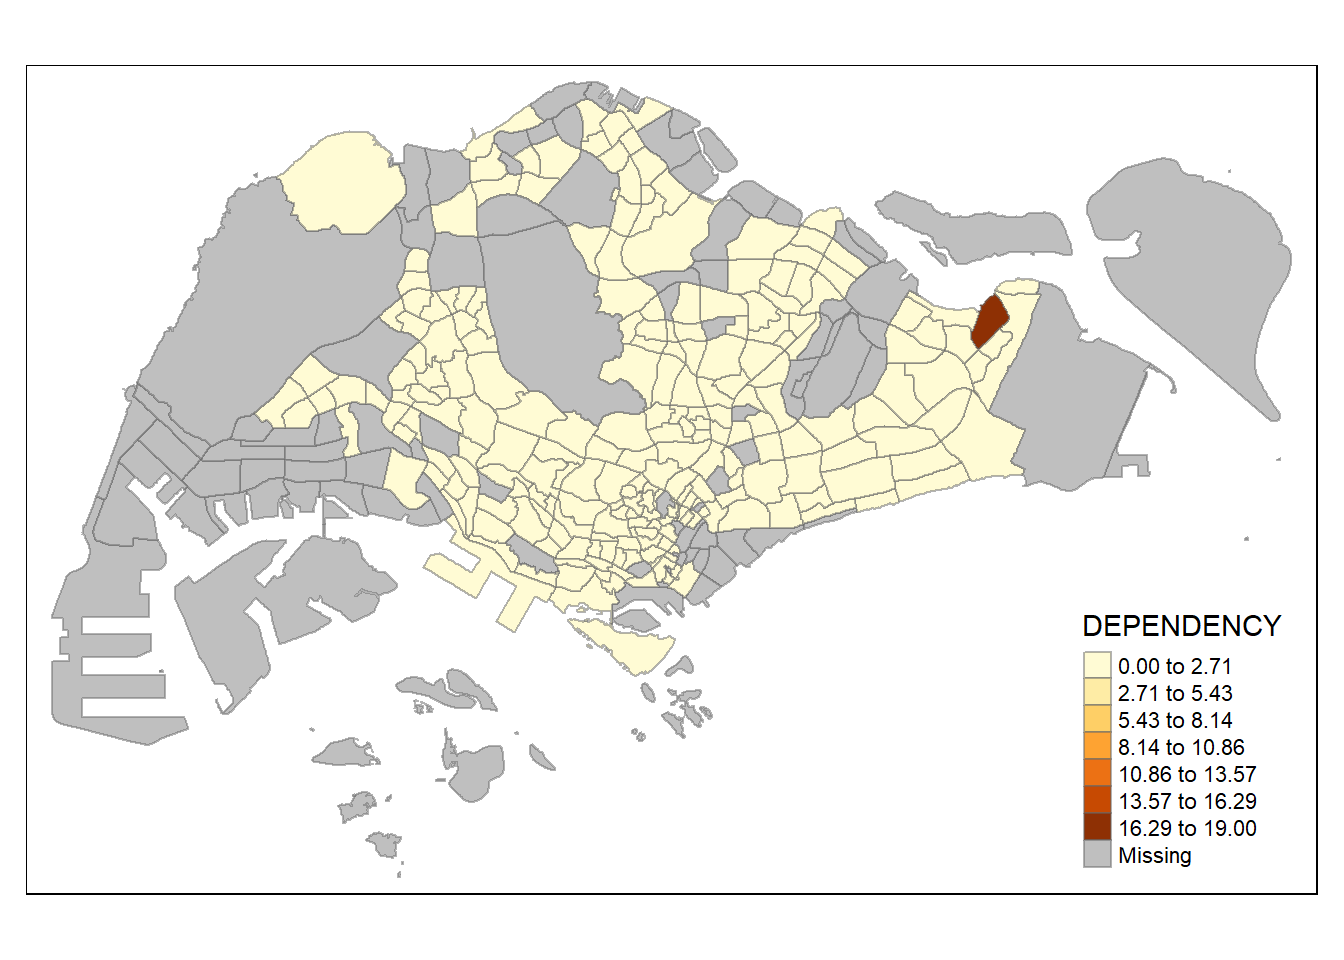
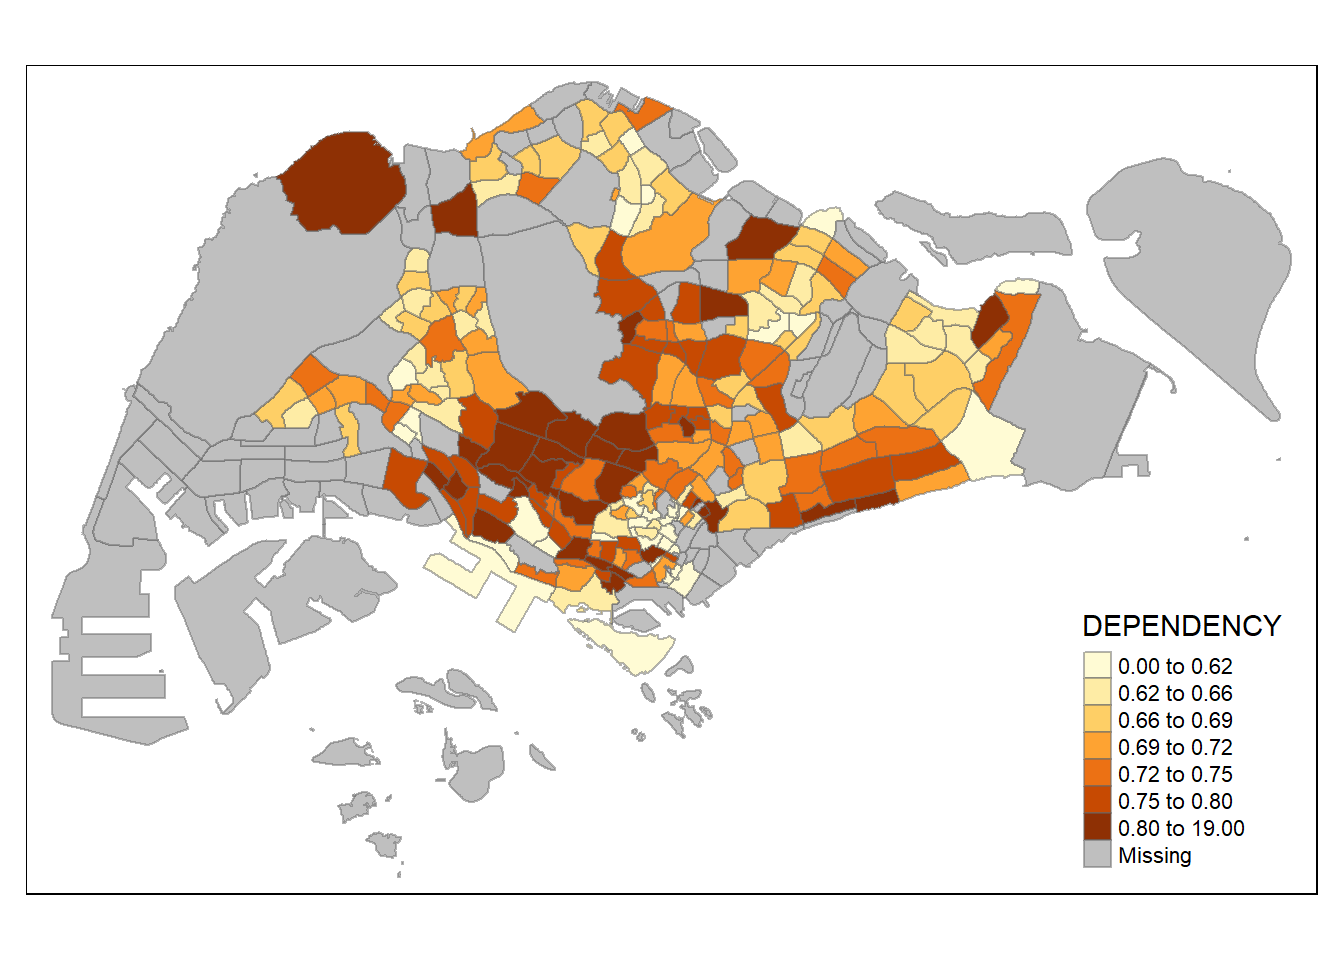
Commit navbar modifications

Changed region(s): [[0.1875, 0.0938, 0.7812, 0.6562], [0.8125, 0.6875, 0.9375, 0.875]]

diff --git a/_site/Hands-on_Ex/Hands-on_Ex02/Hands-on_Ex02.html b/_site/Hands-on_Ex/Hands-on_Ex02/Hands-on_Ex02.html
@@ -493,7 +493,7 @@ First 10 features:
 <section id="using-different-classification-methods-compare-the-differences" class="level2">
 <h2 class="anchored" data-anchor-id="using-different-classification-methods-compare-the-differences">Using different classification methods, compare the differences</h2>
 <div class="cell">
-<div class="sourceCode cell-code" id="cb17"><pre class="sourceCode r code-with-copy"><code class="sourceCode r"><span id="cb17-1"><a href="#cb17-1" aria-hidden="true" tabindex="-1"></a><span class="fu">tm_shape</span>(mpsz_pop2020)<span class="sc">+</span></span>
+<div class="sourceCode cell-code" id="cb17"><pre class="sourceCode r code-with-copy"><code class="sourceCode r"><span id="cb17-1"><a href="#cb17-1" aria-hidden="true" tabindex="-1"></a><span class="fu">tm_shape</span>(mpsz_pop2020) <span class="sc">+</span></span>
 <span id="cb17-2"><a href="#cb17-2" aria-hidden="true" tabindex="-1"></a>  <span class="fu">tm_fill</span>(<span class="st">"DEPENDENCY"</span>,</span>
 <span id="cb17-3"><a href="#cb17-3" aria-hidden="true" tabindex="-1"></a>          <span class="at">n =</span> <span class="dv">5</span>,</span>
 <span id="cb17-4"><a href="#cb17-4" aria-hidden="true" tabindex="-1"></a>          <span class="at">style =</span> <span class="st">"hclust"</span>) <span class="sc">+</span></span>
@@ -503,8 +503,8 @@ First 10 features:
 </div>
 <div class="sourceCode cell-code" id="cb18"><pre class="sourceCode r code-with-copy"><code class="sourceCode r"><span id="cb18-1"><a href="#cb18-1" aria-hidden="true" tabindex="-1"></a><span class="fu">tm_shape</span>(mpsz_pop2020)<span class="sc">+</span></span>
 <span id="cb18-2"><a href="#cb18-2" aria-hidden="true" tabindex="-1"></a>  <span class="fu">tm_fill</span>(<span class="st">"DEPENDENCY"</span>,</span>
-<span id="cb18-3"><a href="#cb18-3" aria-hidden="true" tabindex="-1"></a>          <span class="at">n =</span><span class="dv">7</span>,</span>
-<span id="cb18-4"><a href="#cb18-4" aria-hidden="true" tabindex="-1"></a>          <span class="at">style =</span> <span class="st">"equal"</span>) <span class="sc">+</span></span>
+<span id="cb18-3"><a href="#cb18-3" aria-hidden="true" tabindex="-1"></a>          <span class="at">n =</span> <span class="dv">7</span>,</span>
+<span id="cb18-4"><a href="#cb18-4" aria-hidden="true" tabindex="-1"></a>          <span class="at">style =</span> <span class="st">"quantile"</span>) <span class="sc">+</span></span>
 <span id="cb18-5"><a href="#cb18-5" aria-hidden="true" tabindex="-1"></a>  <span class="fu">tm_borders</span>(<span class="at">alpha =</span> <span class="fl">0.5</span>)</span></code><button title="Copy to Clipboard" class="code-copy-button"><i class="bi"></i></button></pre></div>
 <div class="cell-output-display">
 <p><img src="Hands-on_Ex02_files/figure-html/unnamed-chunk-15-2.png" class="img-fluid" width="672"></p>

diff --git a/_site/index.html b/_site/index.html
@@ -107,6 +107,22 @@ ul.task-list li input[type="checkbox"] {
     <a class="dropdown-item" href="./In-class_Ex/In-class_Ex03/In-class_Ex03.html">
  <span class="dropdown-text">In-class Exercise 3</span></a>
   </li>  
+        <li>
+    <a class="dropdown-item" href="./In-class_Ex/In-class_Ex04/In-class_Ex04.html">
+ <span class="dropdown-text">In-class Exercise 4</span></a>
+  </li>  
+        <li>
+    <a class="dropdown-item" href="./In-class_Ex/In-class_Ex05/In-class_Ex05.html">
+ <span class="dropdown-text">In-class Exercise 5</span></a>
+  </li>  
+    </ul>
+  </li>
+  <li class="nav-item dropdown ">
+    <a class="nav-link dropdown-toggle" href="#" id="nav-menu-take-home-exercise" role="button" data-bs-toggle="dropdown" aria-expanded="false">
+ <span class="menu-text">Take Home Exercise</span>
+    </a>
+    <ul class="dropdown-menu" aria-labelledby="nav-menu-take-home-exercise">    
+        <li class="dropdown-header">Take Home Exercise 1</li>
     </ul>
   </li>
 </ul>
